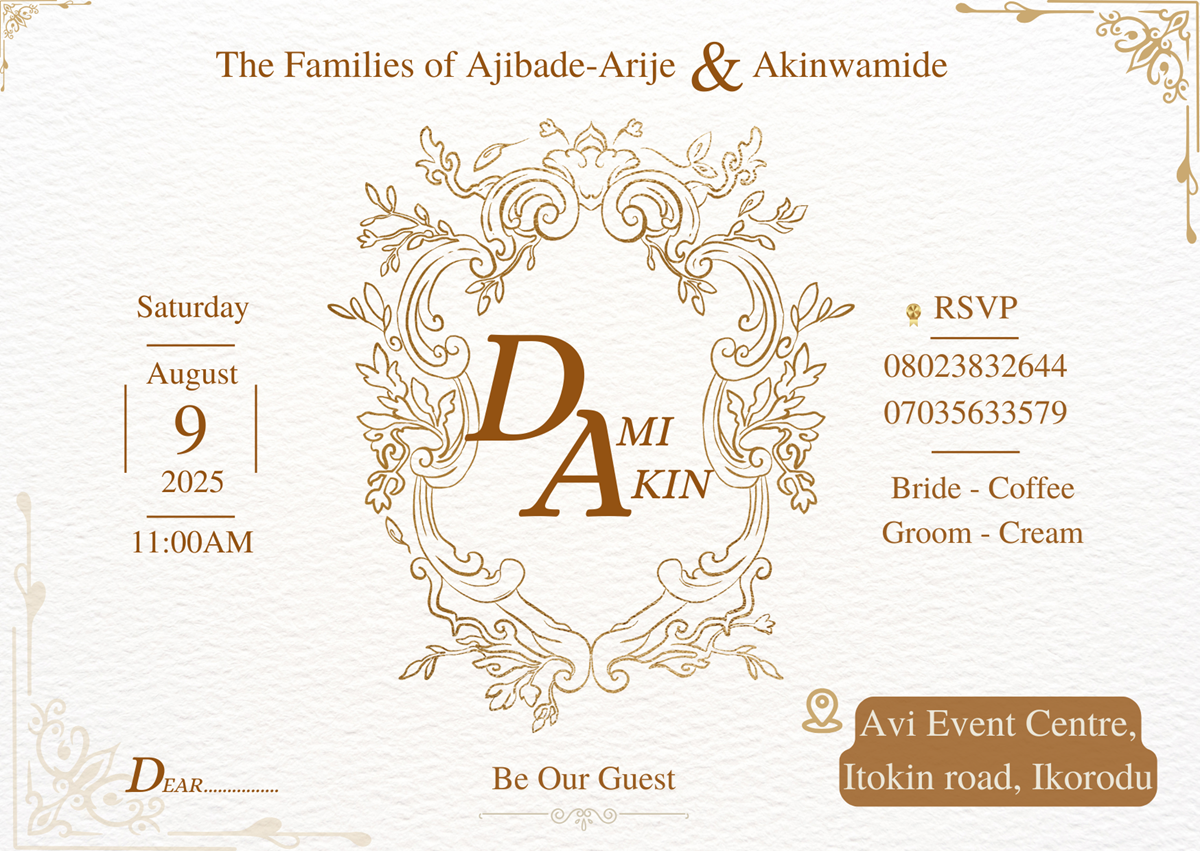
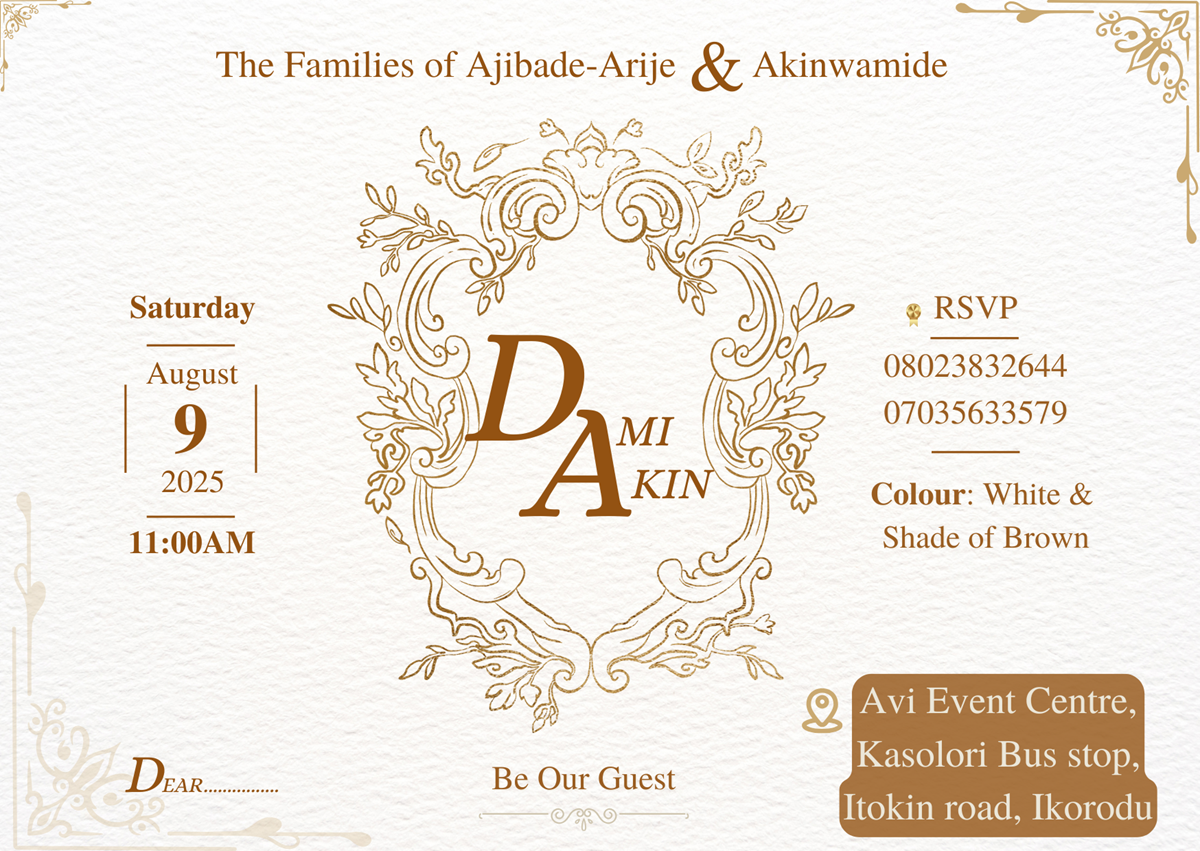
address amendment, and also add square version

diff --git a/src/App.tsx b/src/App.tsx
@@ -1,11 +1,16 @@
 import { useCallback, useEffect, useState, useRef } from 'react';
 import weddingInvite from './assets/WeddingInvite-DA.png';
+import weddingInvitev2 from './assets/WeddingInvite-V2.png';
 import './App.css';
 
+/* 
+ Rectangle version - 1200 * 851
+*/
 function App() {
   const [text, setText] = useState('Damilola');
   const [fontSize, setFontSize] = useState(30);
   const [textColor, setTextColor] = useState('#935212');
+  const [coordinates, setCoordinates] = useState<{ x: number, y: number; image: string; }>({ x: 165, y: 1115, image: weddingInvitev2 });
   const canvasRef = useRef<HTMLCanvasElement>(null);
 
   const drawCanvas = useCallback(() => {
@@ -16,7 +21,7 @@ function App() {
     if (!ctx) return;
 
     const image = new Image();
-    image.src = weddingInvite; // image must be 1200 * 851
+    image.src = coordinates.image; // image must be 1200 * 851
 
     image.onload = () => {
       // Set canvas dimensions
@@ -31,13 +36,13 @@ function App() {
       ctx.font = `${fontSize}px CustomFont`;
       ctx.fillStyle = textColor;
 
-      // Add text
-      const x = 208;
-      const y = 787;
+      // Add text at coordinate
+      // const x = 208;
+      // const y = 787;
 
-      ctx.fillText(text, x, y);
+      ctx.fillText(text, coordinates.x, coordinates.y);
     };
-  }, [text, fontSize, textColor]);
+  }, [text, fontSize, textColor, coordinates]);
 
   useEffect(() => {
     drawCanvas();
@@ -67,6 +72,22 @@ function App() {
         top: '100px',
         display: 'grid',
       }}>
+        <nav style={{
+          display: 'flex',
+          gap: '6px',
+          listStyle: 'none',
+          margin: '0 auto 10px',
+        }}>
+          <li
+            style={{ cursor: 'pointer', color: 'white', backgroundColor: coordinates.x === 165 ? '#0fc935' : '#ac124b', padding: '4px 10px', }}
+            onClick={() => setCoordinates({
+              x: 165, y: 1115, image: weddingInvitev2
+            })}>SQ</li>
+          <li
+            style={{ cursor: 'pointer', color: 'white', backgroundColor: coordinates.x === 208 ? '#0fc935' : '#ac124b', padding: '4px 12px' }}
+            onClick={() => setCoordinates({
+              x: 208, y: 785, image: weddingInvite
+            })}>REC</li></nav>
         <label htmlFor="textInput" style={{
           display: 'grid', fontSize: '25px', margin: "10px 2px"
         }}>Name to add
